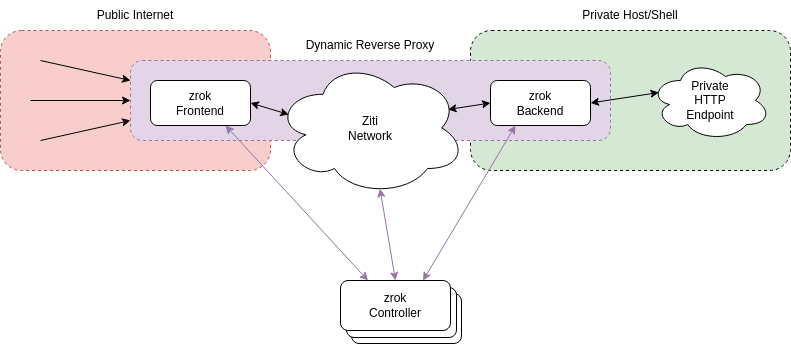
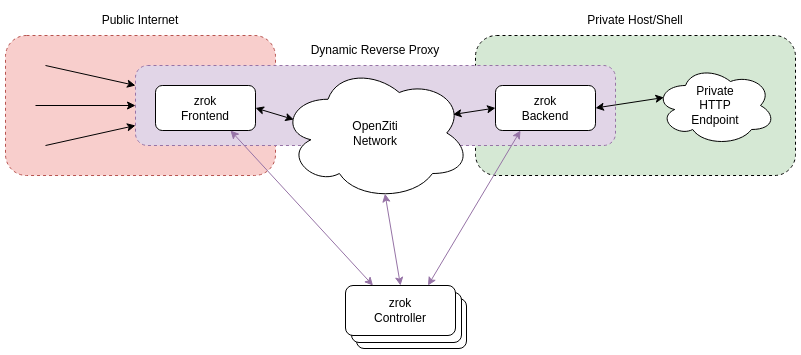
docs; wip

diff --git a/README.md b/README.md
@@ -2,30 +2,46 @@
 
 `zrok` is a service designed to provide frictionless access to ephemeral, geo-scale reverse proxy capabilities.
 
+## Concepts
+
+`zrok` is conceptually structured like this:
+
 ![zrok overview](docs/images/zrok_v0.2_overview.png)
 
-`zrok` is designed with the following properties:
+### zrok Frontend, zrok Backend
 
-## Frictionless
+The `zrok` reverse proxy is broken into two halves, a _frontend_ and a _backend_. These two components connect over an OpenZiti network. Together the frontend and the backend work together to implement a reverse proxy.
 
-`zrok` is designed to provide a "frictionless" experience. A single binary and a single command is all that is required to enable ephemeral connectivity.
+The frontend is designed to be sited on an accessible network (typically the public internet). This allows traffic from that accessible network to ingress into the `zrok` frontend, across the dynamic reverse proxy.
+
+The backend is designed to be sited in a private environment, such as a private development server, or a serverless environment, or a container sidecar. The backend only needs outbound connectivity to reach the OpenZiti network and the `zrok` controller.
+
+The controller is a lightweight control plane component, which orchestrates connectivity between frontend and backend components.
+
+## Characteristics
+
+`zrok` has the following characteristics:
+
+### Frictionless
+
+`zrok` is designed to provide a "frictionless" experience. A single binary and a single command are all that is required to take advantage of all of the power of `zrok`.
 
 `zrok` works in a large number environments: developer shells, container sidecars, serverless environments, webhooks.
 
-## Expand with OpenZiti
+### Expand with OpenZiti
 
 `zrok` is built on top of OpenZiti, a next-generation solution for secure application connectivity. `zrok` is a fantastic way to start working with OpenZiti. Start with simple `zrok` ephemeral connectivity, and then layer on additional capabilities provided by the underlying OpenZiti network.
 
 Bring `zrok` into your existing OpenZiti deployment to provide rapid, ephemeral connectivity for a number of important HTTP scenarios.
 
-## World-Scale
+### World-Scale
 
-`zrok` is the software that powers the `zrok.io` service. It is designed to scale as large as you want.
+`zrok` is the software that powers the `zrok.io` world-scale service. `zrok` can scale as large as you need.
 
-## Multiple Isolated Tenants
+### Multiple Isolated Tenants
 
 A single `zrok` instance can support any number of isolated tenants, allowing them to coexist on top of the same OpenZiti deployment in a secure manner.
 
-## Self-hosting Capable
+### Self-hosting Capable
 
 Install `zrok` on top of your own OpenZiti network. `zrok` is simple to operate and scale.
